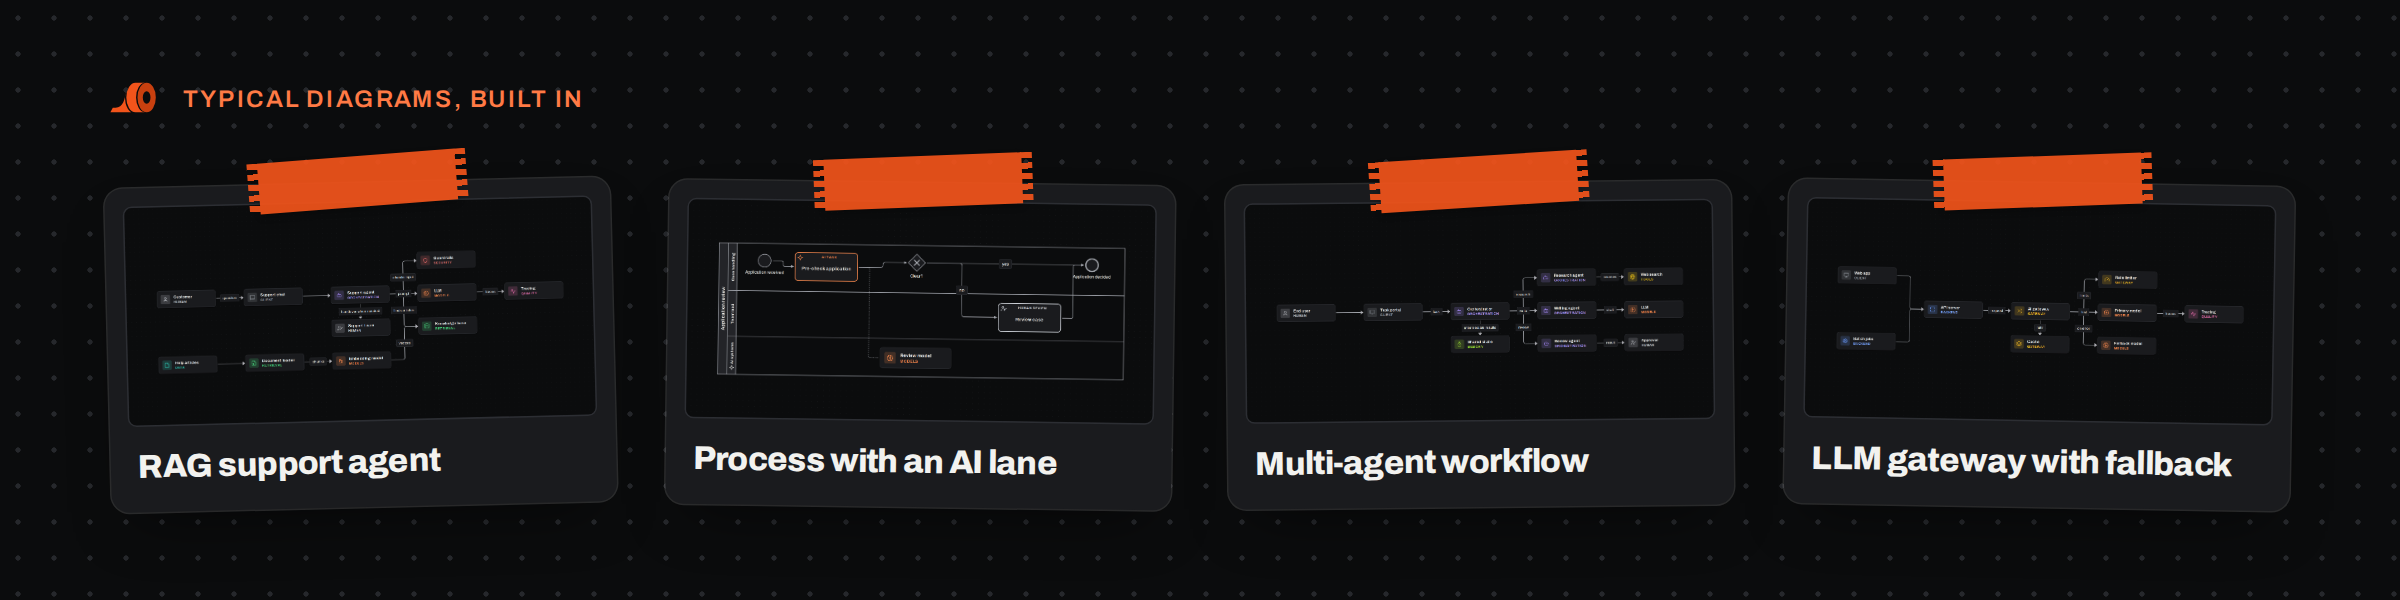
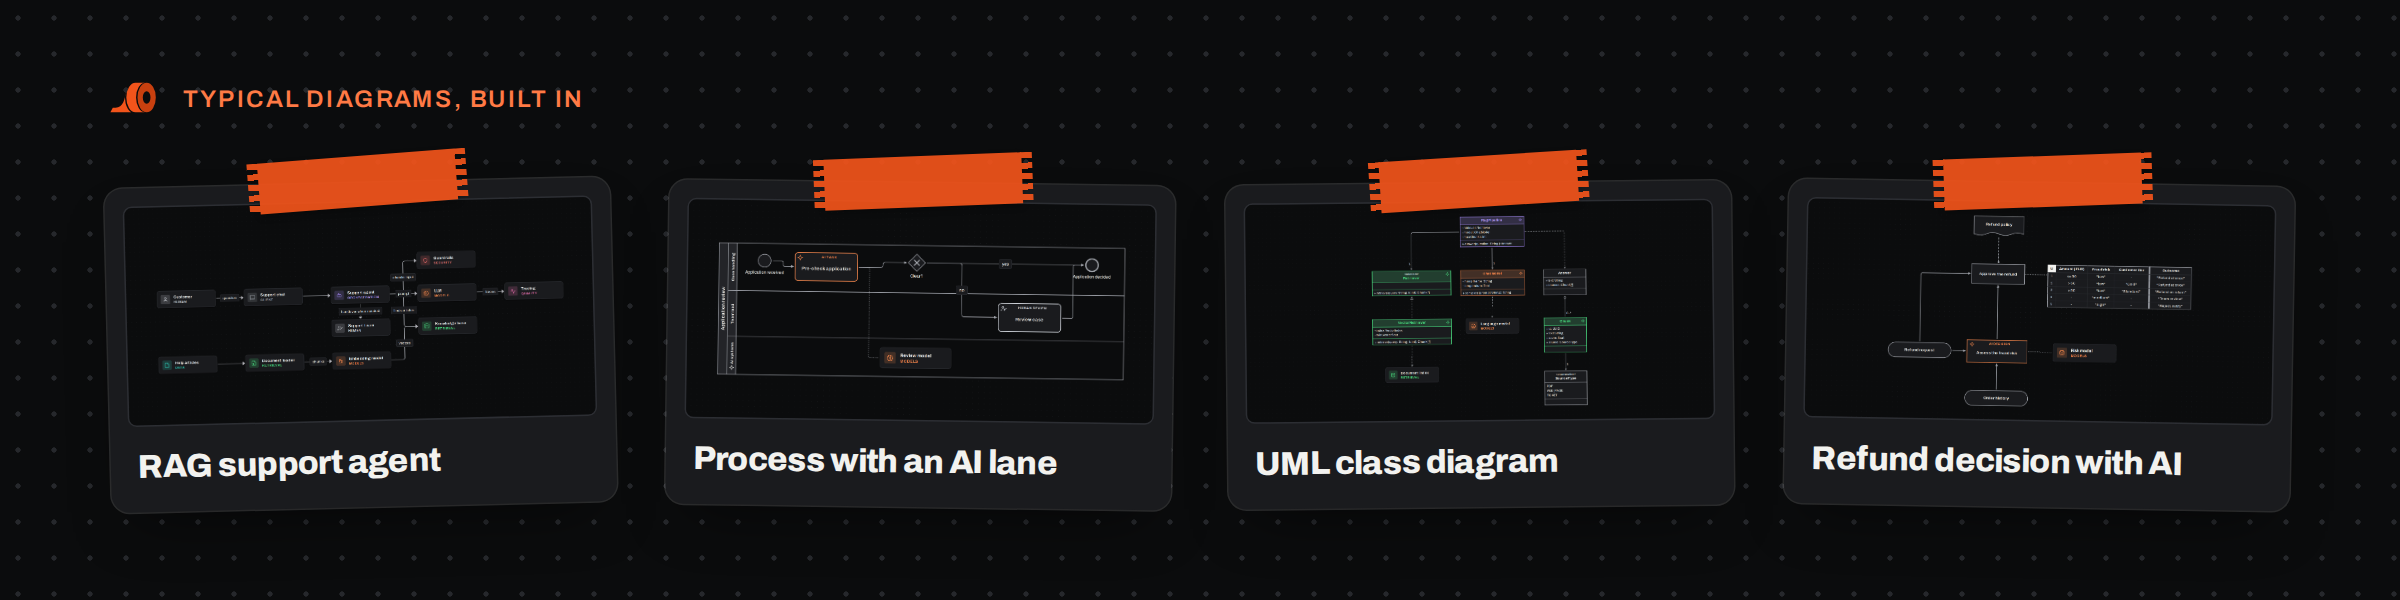
README: UML and DMN in the gallery, links to the four starter templates

diff --git a/README.md b/README.md
@@ -46,16 +46,16 @@ Typical architectures are built in: RAG, agents with tools, gateways with fallba
 ### Processes, software and decisions
 
 **"Draw our claims process in BPMN, with the agent that checks the documents in its own lane."**
-Pools, lanes, events, gateways and tasks, plus an AI lane that holds the model and the agent a task uses. Human review stays a step of its own.
+Pools, lanes, events, gateways and tasks, plus an AI lane that holds the model and the agent a task uses. Human review stays a step of its own. Starter template: [Process with an AI lane](https://theducttape.io/d/vvutzEaF8Jaa).
 
 **"Turn this onboarding process into an event-driven process chain."**
-Events and functions take turns, connectors split and join the paths, and every function gets its organisational unit. The AI function is connected to the component that carries it out.
+Events and functions take turns, connectors split and join the paths, and every function gets its organisational unit. The AI function is connected to the component that carries it out. Starter template: [Incoming invoices with an AI function](https://theducttape.io/d/crqpe4OXQR9Q).
 
 **"Draw the classes of this module as a UML class diagram."**
-Classes, interfaces and enumerations with their attributes and operations, inheritance, composition and multiplicities. A class that stands for a model or a vector store keeps its AI category.
+Classes, interfaces and enumerations with their attributes and operations, inheritance, composition and multiplicities. A class that stands for a model or a vector store keeps its AI category. Starter template: [RAG module as a class diagram](https://theducttape.io/d/nJ5YZYM43wHN).
 
 **"Model the credit decision in DMN, with the decision table."**
-Decisions, input data, knowledge sources and business knowledge models, a decision table with its hit policy, and the AI decision connected to the model that takes it.
+Decisions, input data, knowledge sources and business knowledge models, a decision table with its hit policy, and the AI decision connected to the model that takes it. Starter template: [Refund decision with AI](https://theducttape.io/d/fVbygzgBQSD5).
 
 **"Here is our Mermaid flowchart from the docs. Make it a diagram."**
 Claude imports Mermaid flowcharts, architecture diagrams and class diagrams and matches the labels against the catalog. The way back works too: export to Mermaid, edit the text, and update the diagram in the editor without losing positions.
@@ -156,7 +156,7 @@ node skills/ducttape/scripts/prepare-diagram.mjs graph.json "My diagram.json"
   <a href="https://theducttape.io/examples">
   <picture>
     <source media="(prefers-color-scheme: dark)" srcset="docs/gallery-dark.png">
-    <img src="docs/gallery.png" alt="Typical diagrams: a RAG support agent, a BPMN process with an AI lane, a multi-agent workflow and an LLM gateway with fallback" width="100%">
+    <img src="docs/gallery.png" alt="Typical diagrams: a RAG support agent, a BPMN process with an AI lane, a UML class diagram and a DMN refund decision" width="100%">
   </picture>
   </a>
 </p>
